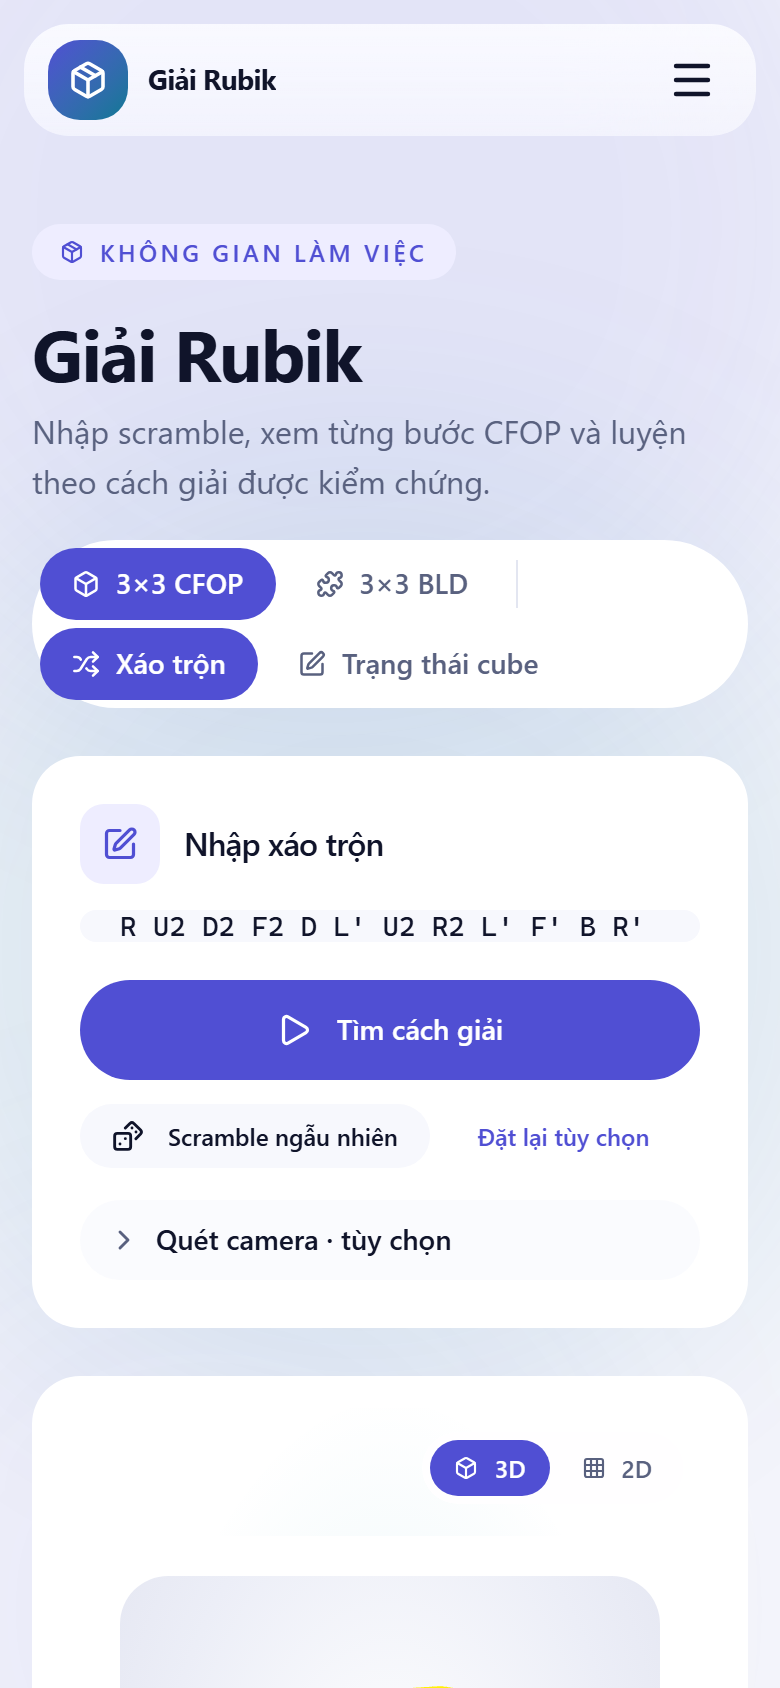
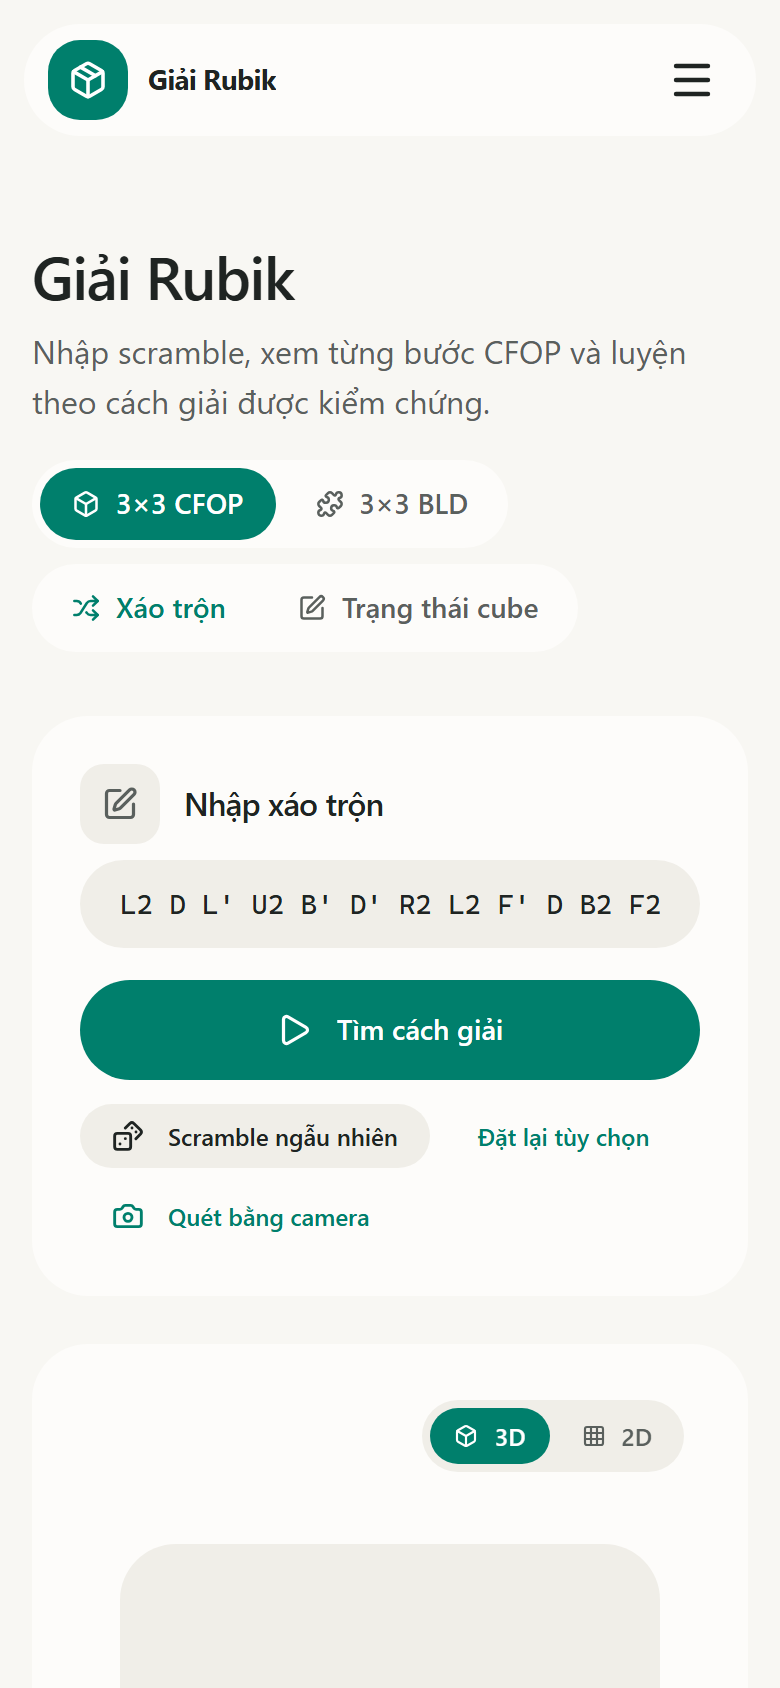
docs: cập nhật README và chụp lại ảnh màn hình
- README (vi, en): tính năng theo từng trang hiện tại (độ sâu opening 4–12,
  scramble WCA, cross tối ưu 6 màu, chế độ tập trung, Bluetooth, 12 lane
  Học thêm, Rubik ảo, lịch giải WCA); bỏ "split" đã gỡ.
- Cổng chất lượng và CI: cargo-deny, proptest, test giao diện phẳng, Binaryen 133.
- README.en.md thêm mục chế độ tối, mobile và ghi công cho ngang bản tiếng Việt.
- Chụp lại 10 ảnh theo màu mới; script chụp chờ dải cross tối ưu tính xong.

diff --git a/README.en.md b/README.en.md
@@ -21,12 +21,30 @@ Try the live app: [cfop-solver.studio](https://cfop-solver.studio) (if available
 
 Regenerate them with `node scripts/capture-screenshots.mjs` while the dev server is running. The Results page is captured with demo data (eight 3×3 solves seeded into `localStorage`) so it shows metrics, the trend chart and the history list; other pages show the app's default states.
 
+### Dark mode
+
+Every page has a dark mode, including the solver and the 3D cube. Switch **Light/Dark/System** from the menu at the right of the navigation bar (account button → **Appearance**) or in **Settings → Appearance**; the choice is saved in `localStorage` and does not flash on reload thanks to a pre-paint script in `index.html`.
+
+| Home | Timer |
+|------|-------|
+| ![Home in dark mode](docs/screenshots/home-dark.png) | ![Timer in dark mode](docs/screenshots/timer-dark.png) |
+
+### Mobile
+
+The whole app is responsive on small screens (the shots below are taken at 390×844px, iPhone size): navigation turns into a hamburger menu, content grids collapse to one column, and the Timer and solver stay fully usable on a phone.
+
+| Home | Timer |
+|------|-------|
+| ![Home on mobile](docs/screenshots/home-mobile.png) | ![Timer on mobile](docs/screenshots/timer-mobile.png) |
+
 ## Features
 
-- CFOP/BLD solver: enter a scramble or the six-face state, per-phase report, CubeNet/3D, the "Auto" opening (tries XXXXCross → XXXCross → XXCross → XCross; search depth is configurable in Settings — 8 moves by default) and Last Layer case recognition (OLL/PLL, ZBLL, 1LLL) on the banner and in the phase list.
-- Multi-event timer with inspection, +2/DNF, splits, replay, history, statistics and an adjustable scramble font size.
-- Study: Last Layer and 3-Style BLD.
-- Account, cloud sync, WCA, competition rooms and leaderboard.
+- **Solver (CFOP/BLD):** enter a scramble or the six-face state (by hand or with the camera scanner), per-phase report, 2D/3D cube with move-by-move replay. Openings: Cross, XCross … XXXXCross or "Auto" (tries XXXXCross → XXXCross → XXCross → XCross); search depth is set in Settings from 4 to 12 moves (8 by default). Last Layer recognises OLL/PLL, ZBLL and 1LLL. The cross colour is placed on D and the solution starts with the cube rotation.
+- **Timer:** multiple events, WCA-format scrambles (TNoodle formats) held white U · green F; optimal cross length for all 6 colours of each scramble; inspection with audio cues, +2/DNF, metronome; focus mode (everything hides while solving, the time sits in the middle of the screen) and an option to hide the time while solving; Smart Cube and GAN Timer over Bluetooth; replay, statistics and an adjustable scramble font size.
+- **Results:** solve history, stats (PB, Ao5, Ao12…), trend chart, event filter, csTimer import and JSON/CSV import and export.
+- **Study (SRS):** Last Layer (OLL, PLL, ZBLL, 1LLL), CFOP, 3-Style BLD, 2×2, Pyraminx, Skewb, Square-1, 4×4 Parity, 5×5 L2E, FTO L3T and FTO 2-Look; a 7-day review schedule and a daily goal.
+- **Virtual cube:** turn a 3×3 with the keyboard (csTimer-style keys) or on-screen buttons, free play or timed solves.
+- **Compete:** account, cross-device sync, competition rooms, weekly/monthly leaderboard, WCA competition calendar with world records.
 - The solver runs entirely in the browser: written in Rust and compiled to
   WebAssembly (~300 KB, downloaded on the first solve). The solver and the BLD
   algorithm catalog are kept on the visitor's machine, so they keep working
@@ -101,6 +119,7 @@ cd packages/solver
 cargo fmt --all -- --check
 cargo clippy --workspace --all-targets -- -D warnings
 cargo test --workspace
+cargo deny check advisories licenses          # needs cargo-deny (cargo install cargo-deny --locked)
 cargo run --release -p cfop --example bench   # Cross/F2L benchmark (p50, p95)
 ```
 
@@ -114,7 +133,9 @@ Beyond unit tests and e2e, the repo has a few dedicated gates — all of them ru
 |---|---|---|
 | Token contrast | `pnpm test --run server/contrast.test.ts` | A main colour pair falling below WCAG AA (4.5:1 for text, 3:1 for the focus ring and status icons) in **both** light and dark mode. |
 | Contrast on real pages | `pnpm exec playwright test e2e/contrast-a11y.spec.ts` | New axe violations on the 6 main pages × 2 modes, and a stale known-violations list (`e2e/contrast-a11y.baseline.json`). |
-| Solver properties | `cd packages/solver && cargo test --workspace` | A Cross longer than 8 moves, F2L breaking the cross or a solved pair, any of the 216 orientation / 288 permutation last-layer states not solved, an OLL/PLL/ZBLL/1LLL algorithm not producing its own case, or any of 5000 random scrambles not ending solved. |
+| Solver properties | `cd packages/solver && cargo test --workspace` | A Cross longer than 8 moves, F2L breaking the cross or a solved pair, any of the 216 orientation / 288 permutation last-layer states not solved, an OLL/PLL/ZBLL/1LLL algorithm not producing its own case, any of 5000 random scrambles not ending solved, or a proptest property failing (moves then inverse, 54-sticker round trip, solving random scrambles). |
+| Rust advisories and licences | `cd packages/solver && cargo deny check advisories licenses` | A Rust dependency with a RustSec advisory or a licence outside the allow list (`packages/solver/deny.toml`). |
+| Flat UI | `pnpm test --run server/flatUi.test.ts` | Shadow classes, borders (`border-*`, `divide-*`), `ring` used as a decorative border, `outline-none`, hard-coded spacing. |
 | Solver performance | `node scripts/bench-solver.mjs --check` | The solver (the real WebAssembly build) returning a wrong answer, or either scenario exceeding its budget: `cross` (20s/scramble, 80s total) or `auto` (60s/scramble, 200s total). |
 | Release contains the solver | `node scripts/verify-solver-dist.mjs` (last step of `pnpm build`) | `dist` missing the solver worker or a valid `.wasm` file. |
 | Preview matches the solver | `pnpm test --run client/src/lib/fastCube.solver.test.ts` | The in-page scramble preview tables disagreeing with the solver for any move (faces, slices, rotations, wide). |
@@ -127,8 +148,8 @@ The `CI` workflow runs **3 jobs** in parallel on every push and pull request:
 
 | Job | What it does |
 |---|---|
-| `Rust solver (fmt, clippy, test)` | `cargo fmt --check`, `cargo clippy -D warnings`, `cargo test` for `packages/solver` |
-| `check-test-build` | build the WASM solver → typecheck → unit tests → e2e → production build → dependency audit |
+| `Rust solver (fmt, clippy, test)` | `cargo fmt --check`, `cargo clippy -D warnings`, `cargo test` and `cargo deny check advisories licenses` for `packages/solver` |
+| `check-test-build` | build the WASM solver (wasm-opt from Binaryen 133, same as Docker) → typecheck → unit tests → e2e → production build → dependency audit |
 | `Solver benchmark (WASM)` | measures solver performance in check mode and uploads a JSON artifact to track the trend |
 
 All three are **required status checks** for merging into `main` — see [docs/REPO-OWNER-CHECKLIST.md](docs/REPO-OWNER-CHECKLIST.md).
@@ -136,6 +157,7 @@ All three are **required status checks** for merging into `main` — see [docs/R
 ## Documentation
 
 - [Documentation index](docs/README.md)
+- [Short guide for agents and contributors (AGENTS.md)](AGENTS.md)
 - [Detailed development guide](docs/development/project-guide.md)
 - [Colour contrast report](docs/validation/contrast-report.md)
 - [Open work items](TODO.md)
@@ -145,7 +167,7 @@ All three are **required status checks** for merging into `main` — see [docs/R
 
 ## Tech stack
 
-- Frontend: React 19 + TypeScript 7 + Vite 8, Tailwind CSS/Studio UI.
+- Frontend: React 19 + TypeScript 7 + Vite 8, Tailwind CSS 4 and Radix UI; flat UI (no borders, no shadows), token colours for both light and dark mode.
 - Backend: Express 5 + tRPC 11, Drizzle ORM, MySQL/MariaDB.
 - Cubing.js and Three.js for scrambles and the 3D cube.
 - The CFOP solver is written in Rust, compiled to WebAssembly and run in a Web Worker.
@@ -164,6 +186,14 @@ After changing Rust code, run `pnpm build:solver` to rebuild the WebAssembly pac
 ## Contributing
 
 Issues, documentation, testing and Pull Requests are welcome. Please read [CONTRIBUTING.md](CONTRIBUTING.md) before getting started.
+
+## Credits
+
+- **FTO case diagrams**: [CubeRoot](https://cuberoot.me/alg/fto) — the PF (9 cases), TL (5), LT (3) and TCP (18 base cases) sets are used as published, with credit. The TCP "(2)" variants (17 cases) are built from the [HCubist](https://hcubist.com/learn/algorithms) FTO 2-Look L3T sheet (freely distributed on the author's site).
+- **Pyraminx case diagrams**: [CubeRoot](https://cuberoot.me/alg/pyraminx) — 38/40 cases (5 LL + 33 L4E) used as published, with credit; the 2 cases CubeRoot does not have (L4E-DEF-1, L4E-DEF-4) still use images from cubingapp.com.
+- **Skewb case diagrams**: drawn in-house (flat art) with Cubing.js from the case states in the catalog (`scripts/generate-skewb-diagrams.mts`) — the same states as the in-app 3D preview, no cubingapp.com images. Algorithms: **Sarah Strong — Sarah Intermediate & Advanced** (via cubingapp.com).
+- **FTO algorithms**: HCubist sheets "FTO 3-Look L3T" and "FTO 2-Look L3T" (Bencisco / CubeRoot) — algorithms shown in the sheet's notation.
+- **Diagrams for other lanes** (Last Layer, CFOP, 4×4/5×5…): cubingapp.com — see the notes in the repo.
 
 ## License
 

diff --git a/README.md b/README.md
@@ -39,10 +39,12 @@ Toàn bộ ứng dụng responsive trên màn hình nhỏ (ảnh dưới đây c
 
 ## Tính năng chính
 
-- Solver CFOP/BLD: nhập scramble hoặc trạng thái sáu mặt, báo cáo theo phase, CubeNet/3D, opening "Tự động" (thử XXXXCross → XXXCross → XXCross → XCross; độ sâu tìm kiếm chỉnh được trong Cài đặt — mặc định 8 nước) và hiển thị case Last Layer (OLL/PLL, ZBLL, 1LLL) trên banner và trong danh sách phase.
-- Timer đa event với inspection, +2/DNF, split, replay, history, thống kê và cỡ chữ scramble tuỳ chọn.
-- Study cho Last Layer và 3-Style BLD.
-- Tài khoản, đồng bộ dữ liệu, WCA, phòng thi đấu và bảng xếp hạng.
+- **Giải Rubik (CFOP/BLD):** nhập scramble hoặc trạng thái sáu mặt (gõ tay hoặc quét bằng camera), báo cáo theo phase, khối 2D/3D có phát lại từng nước. Opening chọn được Cross, XCross … XXXXCross hoặc "Tự động" (thử XXXXCross → XXXCross → XXCross → XCross); độ sâu tìm kiếm chỉnh trong Cài đặt từ 4 đến 12 nước (mặc định 8). Last Layer nhận diện OLL/PLL, ZBLL và 1LLL. Màu cross được đặt ở mặt D, lời giải ghi kèm phép xoay khối.
+- **Bấm giờ:** đa event, scramble chuẩn WCA (định dạng TNoodle) với hướng tráo trắng U · xanh lá F; độ dài cross tối ưu của cả 6 màu cho mỗi scramble; inspection có âm báo, +2/DNF, metronome; chế độ tập trung (ẩn mọi thứ khi đang giải, đồng hồ ở giữa màn hình) và tuỳ chọn ẩn thời gian khi giải; kết nối Smart Cube và GAN Timer qua Bluetooth; replay, thống kê và cỡ chữ scramble tuỳ chọn.
+- **Kết quả:** lịch sử lượt giải, chỉ số (PB, Ao5, Ao12…), biểu đồ xu hướng, lọc theo event, nhập từ csTimer và nhập/xuất JSON, CSV.
+- **Học thêm (SRS):** Last Layer (OLL, PLL, ZBLL, 1LLL), CFOP, 3-Style BLD, 2×2, Pyraminx, Skewb, Square-1, 4×4 Parity, 5×5 L2E, FTO L3T và FTO 2-Look; lịch ôn 7 ngày và mục tiêu mỗi ngày.
+- **Rubik ảo:** xoay khối 3×3 bằng bàn phím (bộ phím giống csTimer) hoặc nút trên màn hình, chơi tự do hoặc giải có giờ.
+- **Thi đấu:** tài khoản, đồng bộ dữ liệu giữa thiết bị, phòng thi đấu, bảng xếp hạng tuần/tháng, lịch giải WCA kèm kỷ lục thế giới.
 - Bộ giải chạy hoàn toàn trong trình duyệt: viết bằng Rust, biên dịch ra
   WebAssembly (~300 KB, chỉ tải khi bấm giải lần đầu). Bộ giải và catalog
   thuật toán BLD được lưu lại trên máy người dùng, nên vẫn dùng được khi
@@ -117,6 +119,7 @@ cd packages/solver
 cargo fmt --all -- --check
 cargo clippy --workspace --all-targets -- -D warnings
 cargo test --workspace
+cargo deny check advisories licenses          # cần cargo-deny (cargo install cargo-deny --locked)
 cargo run --release -p cfop --example bench   # benchmark Cross/F2L (p50, p95)
 ```
 
@@ -130,7 +133,9 @@ Ngoài unit test và e2e, repo còn có các cổng kiểm tra riêng — tất 
 |---|---|---|
 | Tương phản token | `pnpm test --run server/contrast.test.ts` | Cặp màu chính rơi dưới WCAG AA (4.5:1 cho chữ, 3:1 cho vòng focus và biểu tượng trạng thái) ở **cả hai** chế độ sáng và tối. |
 | Tương phản trên trang thật | `pnpm exec playwright test e2e/contrast-a11y.spec.ts` | Vi phạm axe mới trên 6 trang chính × 2 chế độ, và danh sách vi phạm đã biết (`e2e/contrast-a11y.baseline.json`) bị lỗi thời. |
-| Tính chất bộ giải | `cd packages/solver && cargo test --workspace` | Cross dài hơn 8 nước, F2L làm hỏng cross hoặc cặp đã giải, một trong 216 trạng thái hướng / 288 trạng thái hoán vị của last layer không giải đúng, một thuật toán OLL/PLL/ZBLL/1LLL không ra đúng case của nó, hoặc một trong 5000 scramble ngẫu nhiên không về trạng thái đã giải. |
+| Tính chất bộ giải | `cd packages/solver && cargo test --workspace` | Cross dài hơn 8 nước, F2L làm hỏng cross hoặc cặp đã giải, một trong 216 trạng thái hướng / 288 trạng thái hoán vị của last layer không giải đúng, một thuật toán OLL/PLL/ZBLL/1LLL không ra đúng case của nó, một trong 5000 scramble ngẫu nhiên không về trạng thái đã giải, hoặc một test proptest (nước đi rồi nghịch đảo, chuyển đổi 54 sticker, giải scramble ngẫu nhiên) thất bại. |
+| Lỗ hổng và giấy phép Rust | `cd packages/solver && cargo deny check advisories licenses` | Dependency Rust có advisory RustSec hoặc giấy phép ngoài danh sách cho phép (`packages/solver/deny.toml`). |
+| Giao diện phẳng | `pnpm test --run server/flatUi.test.ts` | Class đổ bóng, viền (`border-*`, `divide-*`), `ring` dùng làm viền trang trí, `outline-none`, khoảng cách gán cứng. |
 | Hiệu năng bộ giải | `node scripts/bench-solver.mjs --check` | Bộ giải (bản WebAssembly thật) giải sai, hoặc một kịch bản vượt ngân sách: `cross` (mặc định 20s/đề, 80s tổng) hoặc `auto` (60s/đề, 200s tổng). |
 | Bản phát hành có bộ giải | `node scripts/verify-solver-dist.mjs` (chạy cuối `pnpm build`) | `dist` thiếu worker hoặc file `.wasm` hợp lệ của bộ giải. |
 | Xem trước khớp bộ giải | `pnpm test --run client/src/lib/fastCube.solver.test.ts` | Bảng nước đi dùng để xem trước scramble trong trang lệch với bộ giải ở bất kỳ nước nào (mặt, slice, xoay, wide). |
@@ -143,8 +148,8 @@ Workflow `CI` chạy **3 job** song song trên mỗi push và pull request:
 
 | Job | Nội dung |
 |---|---|
-| `Rust solver (fmt, clippy, test)` | `cargo fmt --check`, `cargo clippy -D warnings`, `cargo test` cho `packages/solver` |
-| `check-test-build` | build bộ giải WASM → typecheck → unit test → e2e → production build → audit dependency |
+| `Rust solver (fmt, clippy, test)` | `cargo fmt --check`, `cargo clippy -D warnings`, `cargo test` và `cargo deny check advisories licenses` cho `packages/solver` |
+| `check-test-build` | build bộ giải WASM (wasm-opt từ Binaryen 133, cùng bản với Docker) → typecheck → unit test → e2e → production build → audit dependency |
 | `Solver benchmark (WASM)` | đo hiệu năng bộ giải ở chế độ kiểm tra, xuất JSON làm artifact để theo dõi xu hướng |
 
 Ba job đều là **check bắt buộc** khi merge vào `main` — xem [docs/REPO-OWNER-CHECKLIST.md](docs/REPO-OWNER-CHECKLIST.md).
@@ -152,6 +157,7 @@ Ba job đều là **check bắt buộc** khi merge vào `main` — xem [docs/REP
 ## Tài liệu
 
 - [Mục lục tài liệu](docs/README.md)
+- [Hướng dẫn ngắn cho agent và người đóng góp (AGENTS.md)](AGENTS.md)
 - [Hướng dẫn phát triển chi tiết](docs/development/project-guide.md)
 - [Báo cáo tương phản màu](docs/validation/contrast-report.md)
 - [Danh sách việc còn mở](TODO.md)
@@ -161,7 +167,7 @@ Ba job đều là **check bắt buộc** khi merge vào `main` — xem [docs/REP
 
 ## Công nghệ và cấu trúc chính
 
-- Frontend React 19 + TypeScript 7 + Vite 8, giao diện Tailwind CSS/Studio UI.
+- Frontend React 19 + TypeScript 7 + Vite 8, Tailwind CSS 4 và Radix UI; giao diện phẳng (không viền, không bóng), màu theo token cho cả chế độ sáng và tối.
 - Backend Express 5 + tRPC 11, Drizzle ORM và MySQL/MariaDB.
 - Cubing.js và Three.js cho scramble và cube 3D.
 - Bộ giải CFOP viết bằng Rust, biên dịch ra WebAssembly và chạy trong Web Worker.
